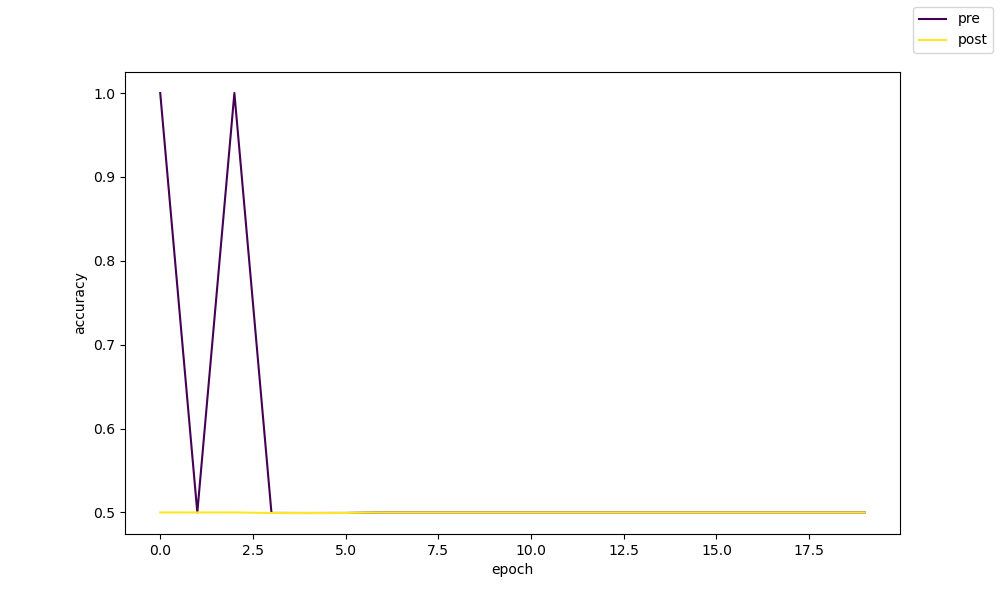
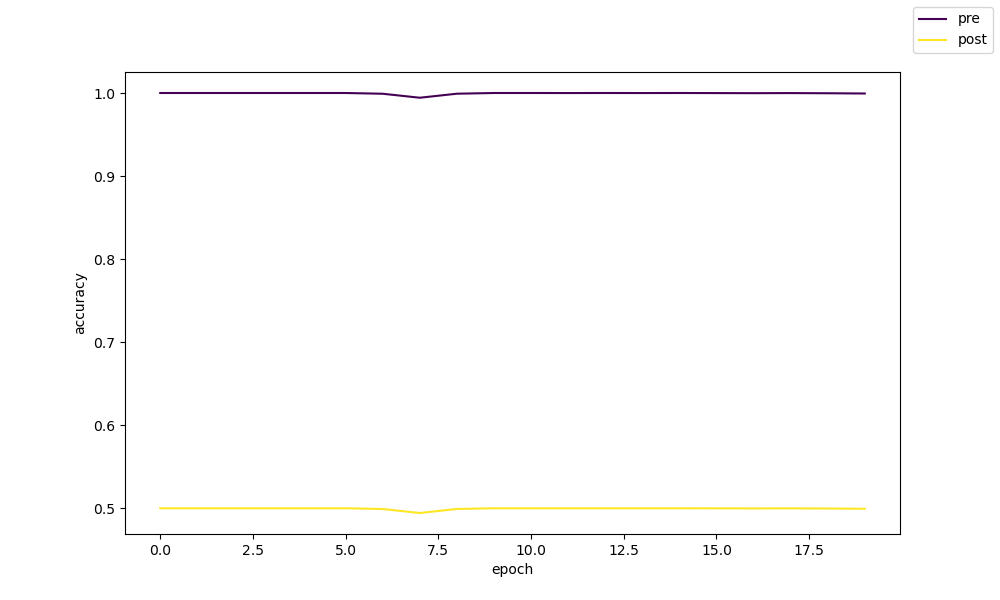
KZ-137: added batch norm and LeLU layers

diff --git a/ml/examples/gan_mnist/models.py b/ml/examples/gan_mnist/models.py
@@ -12,15 +12,18 @@ class Discriminator(Model):
         self.layers = nn.Sequential(
             nn.Conv2d(1, 8, kernel_size=3, padding=1),
             nn.Conv2d(8, 8, kernel_size=3, padding=1),
+            nn.BatchNorm2d(8),
             nn.MaxPool2d(2),
-            nn.ReLU(),
+            nn.LeakyReLU(),
             nn.Conv2d(8, 8, kernel_size=3, padding=1),
             nn.Conv2d(8, 8, kernel_size=3),
+            nn.BatchNorm2d(8),
             nn.MaxPool2d(2),
-            nn.ReLU(),
+            nn.LeakyReLU(),
             nn.Conv2d(8, 8, kernel_size=3, padding=1),
+            nn.BatchNorm2d(8),
             nn.MaxPool2d(2),
-            nn.ReLU(),
+            nn.LeakyReLU(),
             nn.Flatten(),
             nn.Linear(72, 1),
         )
@@ -29,7 +32,7 @@ class Discriminator(Model):
         return self.layers(x)
 
     def compile(self, loss_fn):
-        self.optimizer = torch.optim.Adam(self.parameters(), lr=1e-5)
+        self.optimizer = torch.optim.Adam(self.parameters(), lr=1e-4)
         self.loss_fn = loss_fn
         self.is_compiled = True
 
@@ -57,14 +60,19 @@ class Generator(Model):
             nn.Linear(16, 72),
             nn.Unflatten(-1, (8, 3, 3)),
             nn.ConvTranspose2d(8, 8, kernel_size=3, stride=1),
-            nn.ReLU(),
+            nn.BatchNorm2d(8),
+            nn.LeakyReLU(),
             nn.ConvTranspose2d(8, 8, kernel_size=4, stride=1),
-            nn.ReLU(),
+            nn.BatchNorm2d(8),
+            nn.LeakyReLU(),
             nn.ConvTranspose2d(8, 8, kernel_size=4, stride=1),
-            nn.ReLU(),
+            nn.BatchNorm2d(8),
+            nn.LeakyReLU(),
             nn.ConvTranspose2d(8, 8, kernel_size=3, stride=1),
-            nn.ReLU(),
+            nn.BatchNorm2d(8),
+            nn.LeakyReLU(),
             nn.ConvTranspose2d(8, 1, kernel_size=4, stride=2),
+            nn.BatchNorm2d(1),
             nn.Sigmoid(),
         )
         self.noise_dim = 16
